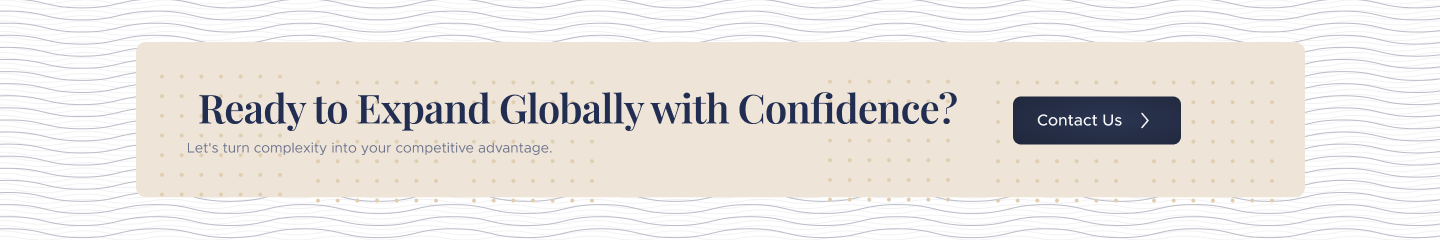
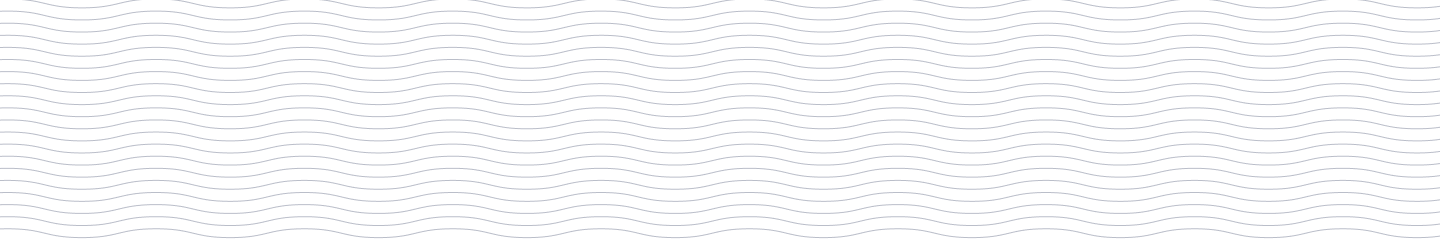
updated

diff --git a/components/Navbar.tsx b/components/Navbar.tsx
@@ -18,7 +18,7 @@ import {
 } from "lucide-react";
 import logo from "../assets/logo.png";
 const navigation = [
-  { name: "Solutions", href: "#solution", icon: <ChevronDown /> },
+{ name: "Solutions", href: "#solution", icon: <ChevronDown /> },
   { name: "Methodology", href: "#methodology", icon: <ChevronDown /> },
   { name: "Pillars", href: "#pillars", icon: <ChevronDown /> },
   { name: "Insights", href: "#contact", icon: <ChevronDown /> },
@@ -97,101 +97,95 @@ export default function Navbar() {
         </motion.div>
       </nav>
 
+     
+      {/* Mobile Menu Drawer */}
       <AnimatePresence>
         {mobileMenuOpen && (
           <motion.div
-            className="lg:hidden fixed inset-0 z-50"
-            initial={{ opacity: 0 }}
-            animate={{ opacity: 1 }}
-            exit={{ opacity: 0 }}
+            className="lg:hidden fixed inset-0 z-50 bg-white"
+            initial={{ x: "100%" }}
+            animate={{ x: 0 }}
+            exit={{ x: "100%" }}
+            transition={{ duration: 0.3 }}
           >
-            <div className="fixed inset-y-0 right-0 z-50 w-full overflow-y-auto bg-white px-6 py-6 sm:max-w-sm sm:ring-1 sm:ring-gray-900/10">
-              <div className="flex items-center justify-between">
-                <a
-                  href="#"
-                  className="-m-1.5 p-1.5 flex items-center space-x-2"
-                >
-                  <img src={logo.src} alt="Company Logo" className="h-8 w-auto" />
-                </a>
+            <div className="p-6 space-y-4 bg-white">
+              {/* Close button */}
+              <div className="flex justify-between items-center">
+                <img src={logo.src} alt="Company Logo" className="h-8 w-auto" />
                 <button
                   type="button"
-                  className="-m-2.5 rounded-md p-2.5 text-gray-700"
+                  className="p-2 text-gray-700"
                   onClick={() => setMobileMenuOpen(false)}
-                  aria-label="Close menu"
                 >
-                  <X className="h-6 w-6" aria-hidden="true" />
+                  <X className="h-6 w-6" />
                 </button>
               </div>
-              <div className="mt-6 flow-root">
-                <div className="-my-6 divide-y divide-gray-500/10">
-                  <div className="space-y-2 py-6">
-                    {navigation.map((item) => (
-                      <a
-                        key={item.name}
-                        href={item.href}
-                        className="-mx-3 block rounded-lg px-3 py-2 text-base font-semibold leading-7 text-gray-900 hover:bg-gray-50"
-                        onClick={() => setMobileMenuOpen(false)}
+
+              {/* Navigation links */}
+              <div className="space-y-2">
+                {navigation.map((item) =>
+                  item.submenu ? (
+                    <div key={item.name}>
+                      <button
+                        className="flex w-full justify-between items-center px-3 py-2 rounded-lg text-gray-900 hover:bg-gray-100"
+                        onClick={() => toggleSubMenu(item.name)}
                       >
                         {item.name}
-                      </a>
-                    ))}
-                    <div className="group relative">
-                      <button
-                        className="-mx-3 block rounded-lg px-3 py-2 text-base font-semibold leading-7 text-gray-900 hover:bg-gray-50 w-full text-left"
-                        onClick={() => setMobileMenuOpen(false)}
-                      >
-                        Solutions
+                        {activeSubMenu === item.name ? (
+                          <ChevronUp size={18} />
+                        ) : (
+                          <ChevronDown size={18} />
+                        )}
                       </button>
-                      <div className="absolute left-4 mt-1 w-48 rounded-md bg-white shadow-lg py-1">
-                        <a
-                          href="#solutions"
-                          className="-mx-3 block rounded-lg px-3 py-2 text-base font-semibold leading-7 text-gray-900 hover:bg-gray-50"
-                          onClick={() => setMobileMenuOpen(false)}
-                        >
-                          Solutions
-                        </a>
-                        <a
-                          href="#methodology"
-                          className="-mx-3 block rounded-lg px-3 py-2 text-base font-semibold leading-7 text-gray-900 hover:bg-gray-50"
-                          onClick={() => setMobileMenuOpen(false)}
-                        >
-                          Methodology
-                        </a>
-                        <a
-                          href="#pillars"
-                          className="-mx-3 block rounded-lg px-3 py-2 text-base font-semibold leading-7 text-gray-900 hover:bg-gray-50"
-                          onClick={() => setMobileMenuOpen(false)}
-                        >
-                          Pillars
-                        </a>
-                        <a
-                          href="#insights"
-                          className="-mx-3 block rounded-lg px-3 py-2 text-base font-semibold leading-7 text-gray-900 hover:bg-gray-50"
-                          onClick={() => setMobileMenuOpen(false)}
-                        >
-                          Insights
-                        </a>
-                      </div>
+
+                      <AnimatePresence>
+                        {activeSubMenu === item.name && (
+                          <motion.div
+                            initial={{ height: 0, opacity: 0 }}
+                            animate={{ height: "auto", opacity: 1 }}
+                            exit={{ height: 0, opacity: 0 }}
+                            className="pl-4 space-y-1"
+                          >
+                            {item.submenu.map((sub) => (
+                              <a
+                                key={sub.name}
+                                href={sub.href}
+                                className="block px-3 py-2 text-sm text-gray-700 hover:bg-gray-50"
+                                onClick={() => setMobileMenuOpen(false)}
+                              >
+                                {sub.name}
+                              </a>
+                            ))}
+                          </motion.div>
+                        )}
+                      </AnimatePresence>
                     </div>
+                  ) : (
                     <a
-                      href="#about-us"
-                      className="-mx-3 block rounded-lg px-3 py-2 text-base font-semibold leading-7 text-gray-900 hover:bg-gray-50"
+                      key={item.name}
+                      href={item.href}
+                      className="block px-3 py-2 rounded-lg text-gray-900 hover:bg-gray-100"
                       onClick={() => setMobileMenuOpen(false)}
                     >
-                      About Us
+                      {item.name}
                     </a>
-                  </div>
-                  <div className="py-6">
-                    <Button className="w-full bg-blue-600 hover:bg-blue-700">
-                      Get Started
-                    </Button>
-                  </div>
-                </div>
+                  )
+                )}
+              </div>
+
+              {/* CTA */}
+              <div>
+                <Button className="w-full bg-blue-600 hover:bg-blue-700">
+                  Get Started
+                </Button>
               </div>
             </div>
           </motion.div>
         )}
       </AnimatePresence>
+ 
+ 
+
     </header>
   );
 }

diff --git a/components/Footer.tsx b/components/Footer.tsx
@@ -1,20 +1,42 @@
 "use client";
 
-import { Facebook, Instagram, X, Linkedin, SendHorizonal } from "lucide-react";
+import {
+  Facebook,
+  Instagram,
+  X,
+  Linkedin,
+  SendHorizonal,
+  ChevronRight,
+} from "lucide-react";
 import footerlogo from "../assets/footerlogo.png";
 import bgimageend from "../assets/bgimageend.png";
+import { Button } from "react-day-picker";
 export default function Footer() {
   return (
     <>
       <section
-        className="w-full bg-[#f9f5ef] py-16 px-6 rounded-2xl bg-cover bg-center"
+        className="w-full bg-[#f9f5ef] py-8 px-6 rounded-2xl bg-cover bg-center"
         style={{
           backgroundImage: `url(${bgimageend.src})`,
         }}
       >
-       
-       
-        
+        <div className="bg-[#EEE5D8] p-5 rounded-md grid grid-cols-1 md:grid-cols-2 items-center gap-4">
+          {/* Left Column - Text */}
+          <div>
+            <h1 className="text-lg" style={{fontSize:"30px"}}>
+              Ready to Expand Globally with Confidence?
+            </h1>
+
+            <p className="py-4">Lets turn complexity into your competitive advantage.</p>
+          </div>
+
+          {/* Right Column - Button */}
+          <div className="flex md:justify-end">
+            <button className="bg-[#1f263a] text-white flex items-center gap-2 rounded p-3">
+            Contact Us <ChevronRight />
+            </button>
+          </div>
+        </div>
       </section>
       <footer className="bg-[#0E1832] text-white pt-16 pb-10 px-6">
         {/* Section Heading */}

diff --git a/components/Coreservice.tsx b/components/Coreservice.tsx
@@ -32,7 +32,7 @@ const services = [
 
 export default function CoreService() {
   return (
-    <section className="w-full bg-[#f9f5ef] py-16 px-6 rounded-2xl">
+    <section className="w-full bg-[#f9f5ef] py-16 px-6 rounded-2xl"id="solution" >
       {/* Section Heading */}
       <div className="m-5 bg-[#EEE5D8] p-2 rounded-md py-5">
         <div className="text-center mb-12">
